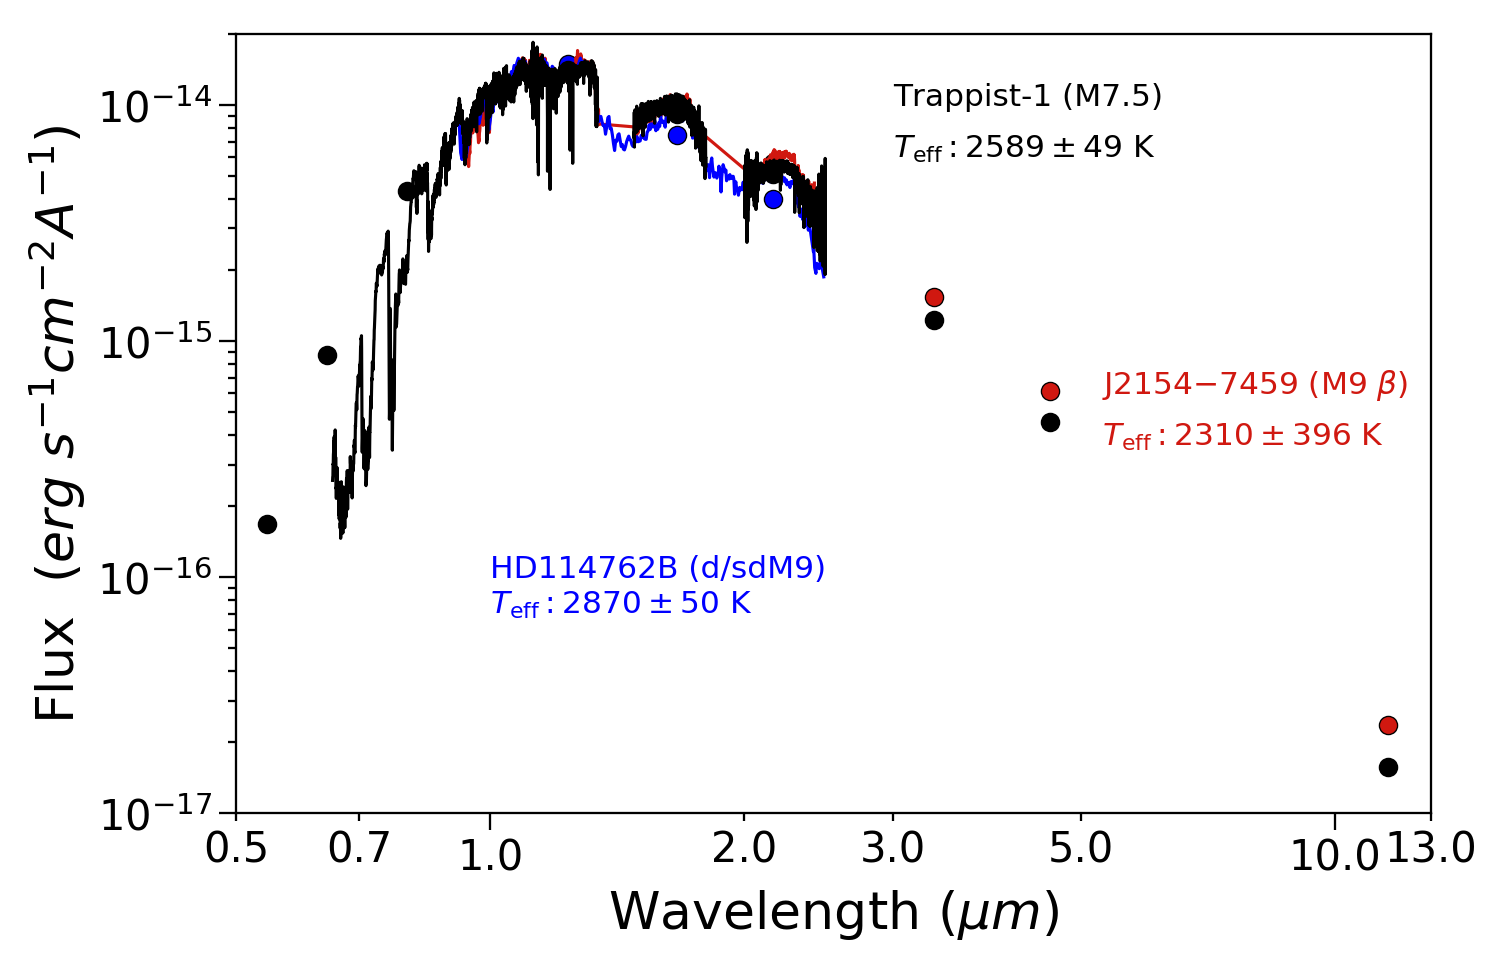
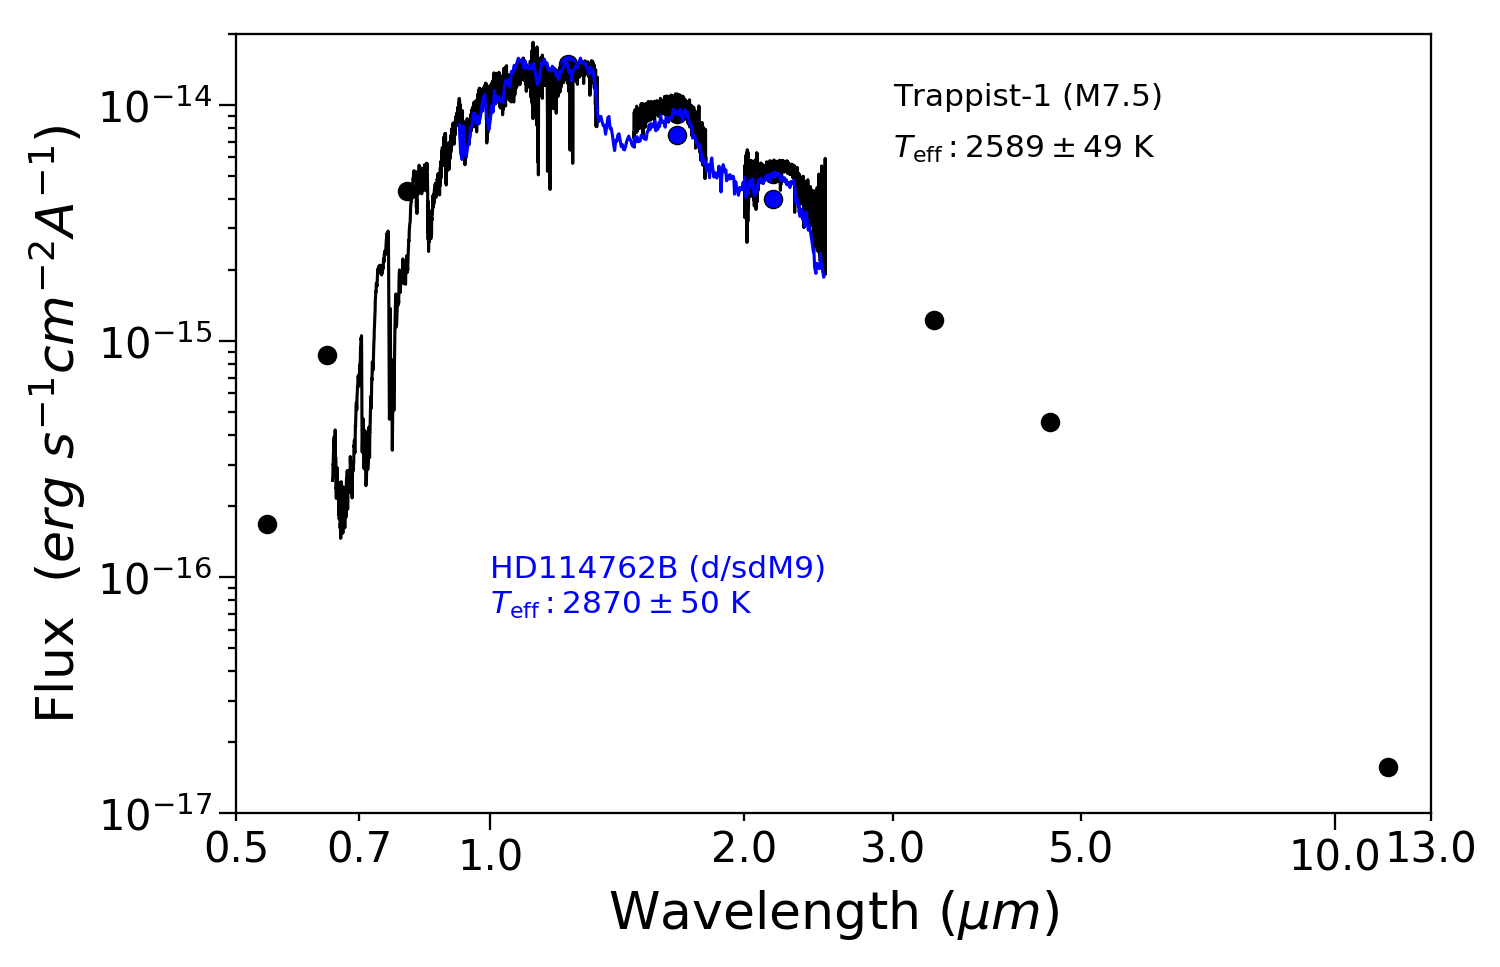
Removed lbol comp from the plot.

diff --git a/Trappist_best_fit_not_fieldcomps.py b/Trappist_best_fit_not_fieldcomps.py
@@ -11,10 +11,6 @@ df_trap = pd.read_csv('Data/FIRE2306-0502 (M7.5) SED.txt', sep=" ", comment='#',
                       names=["w", "f", "err"])
 df_trap_phot = pd.read_csv('Data/FIRE2306-0502 (M7.5) phot.txt', sep=" ", comment='#', header=None,
                            names=["w", "f", "err"])
-df_2154 = pd.read_csv('Data/young_comp/2154-7459 (M9.5beta) SED.txt', sep=" ", comment='#', header=None,
-                      names=["w", "f", "err"])
-df_2154_phot = pd.read_csv('Data/young_comp/2154-7459 (M9.5beta) phot.txt', sep=" ", comment='#', header=None,
-                           names=["w", "f", "err"])
 df_HD = pd.read_csv('../Atmospheres_paper/Data/HD114762B (M9sd) SED.txt', sep=" ", comment='#', header=None,
                     names=["w", "f", "err"])
 df_HD_phot = pd.read_csv('../Atmospheres_paper/Data/HD114762B (M9sd) phot.txt', sep=" ", comment='#', header=None,
@@ -37,11 +33,8 @@ for axis in ['top', 'bottom', 'left', 'right']:  # Thicken the frame
     ax1.spines[axis].set_linewidth(1.1)
 
 # -------- Add data -----------
-ax1.loglog(df_trap['w'], df_trap['f'], c='k', zorder=22)
-ax1.scatter(df_trap_phot['w'], df_trap_phot['f'], c='k', s=70, zorder=23)
-ax1.loglog(df_2154['w'], df_2154['f'], c='#D01810')
-ax1.scatter(df_2154_phot['w'], df_2154_phot['f'], c='k', s=70)
-ax1.scatter(df_2154_phot['w'], df_2154_phot['f'], c='#D01810', s=50)
+ax1.loglog(df_trap['w'], df_trap['f'], c='k', zorder=1)
+ax1.scatter(df_trap_phot['w'], df_trap_phot['f'], c='k', s=70, zorder=2)
 ax1.loglog(df_HD['w'], df_HD['f'], c='blue')
 ax1.scatter(df_HD_phot['w'], df_HD_phot['f'], c='k', s=70)
 ax1.scatter(df_HD_phot['w'], df_HD_phot['f'], c='blue', s=50)
@@ -63,8 +56,6 @@ plt.ylabel('Flux  ($erg\ s^{-1} cm^{-2} A^{-1}$)', fontsize=25)
 # ------ Labeling Objects --------
 ax1.annotate('Trappist-1 (M7.5) ', xy=(3, 10**(-14)), color='k', fontsize=15)
 ax1.annotate('$T_\mathrm{eff}: 2589 \pm 49$ K', xy=(3, 6*10**(-15)), color='k', fontsize=15)
-ax1.annotate('J2154$-$7459 (M9 $\\beta$)', xy=(5.3, 6*10**(-16)), color='#D01810', fontsize=15)
-ax1.annotate('$T_\mathrm{eff}: 2310 \pm 396$ K', xy=(5.3, 3.6*10**(-16)), color='#D01810', fontsize=15)
 ax1.annotate('HD114762B (d/sdM9)', xy=(1, 10**(-16)), color='blue', fontsize=15)
 ax1.annotate('$T_\mathrm{eff}: 2870 \pm 50$ K', xy=(1, 7*10**(-17)), color='blue', fontsize=15)
 
